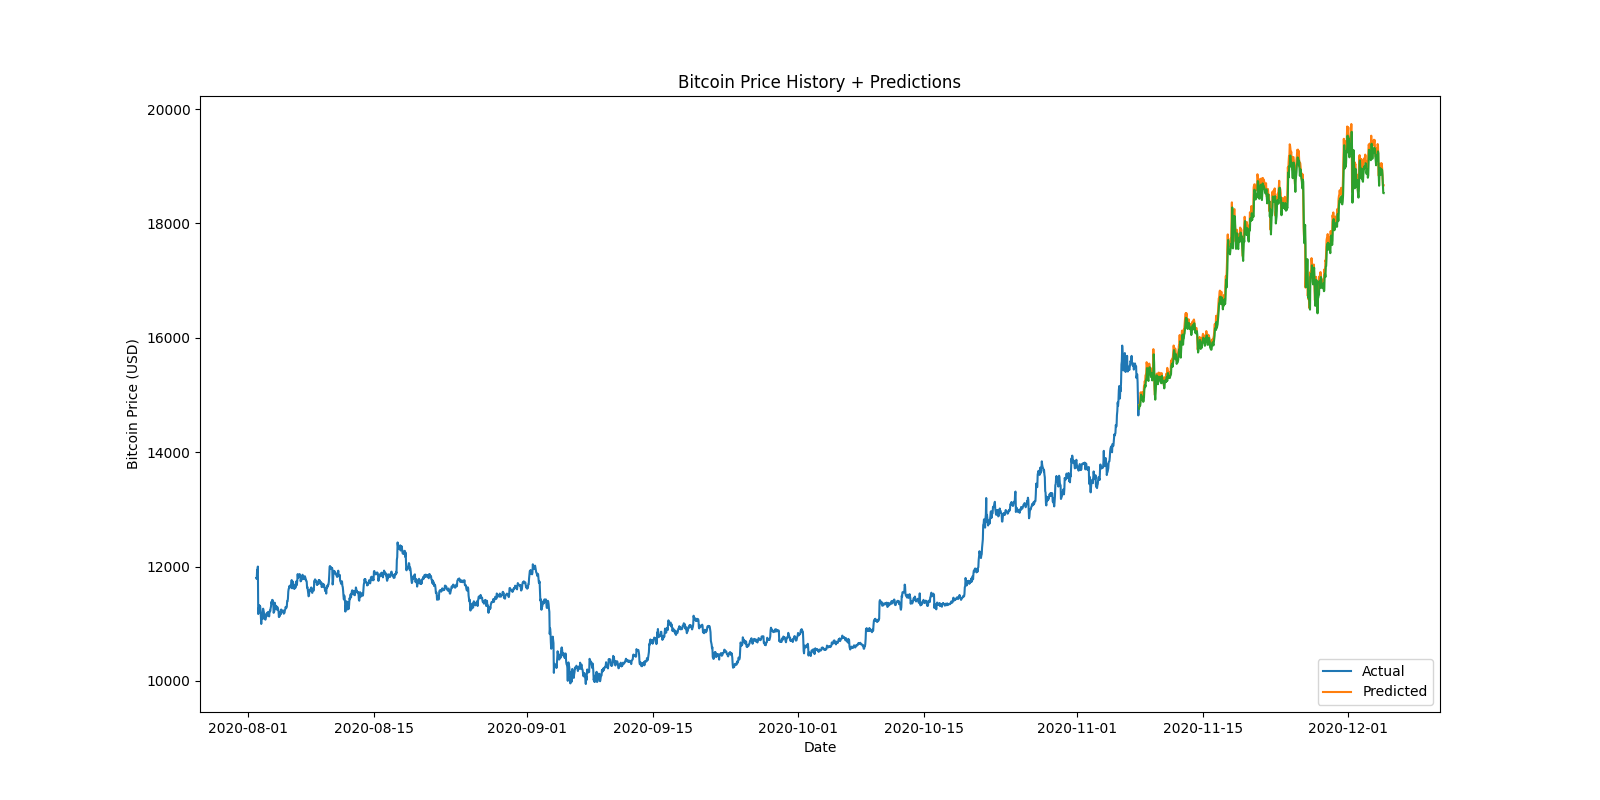
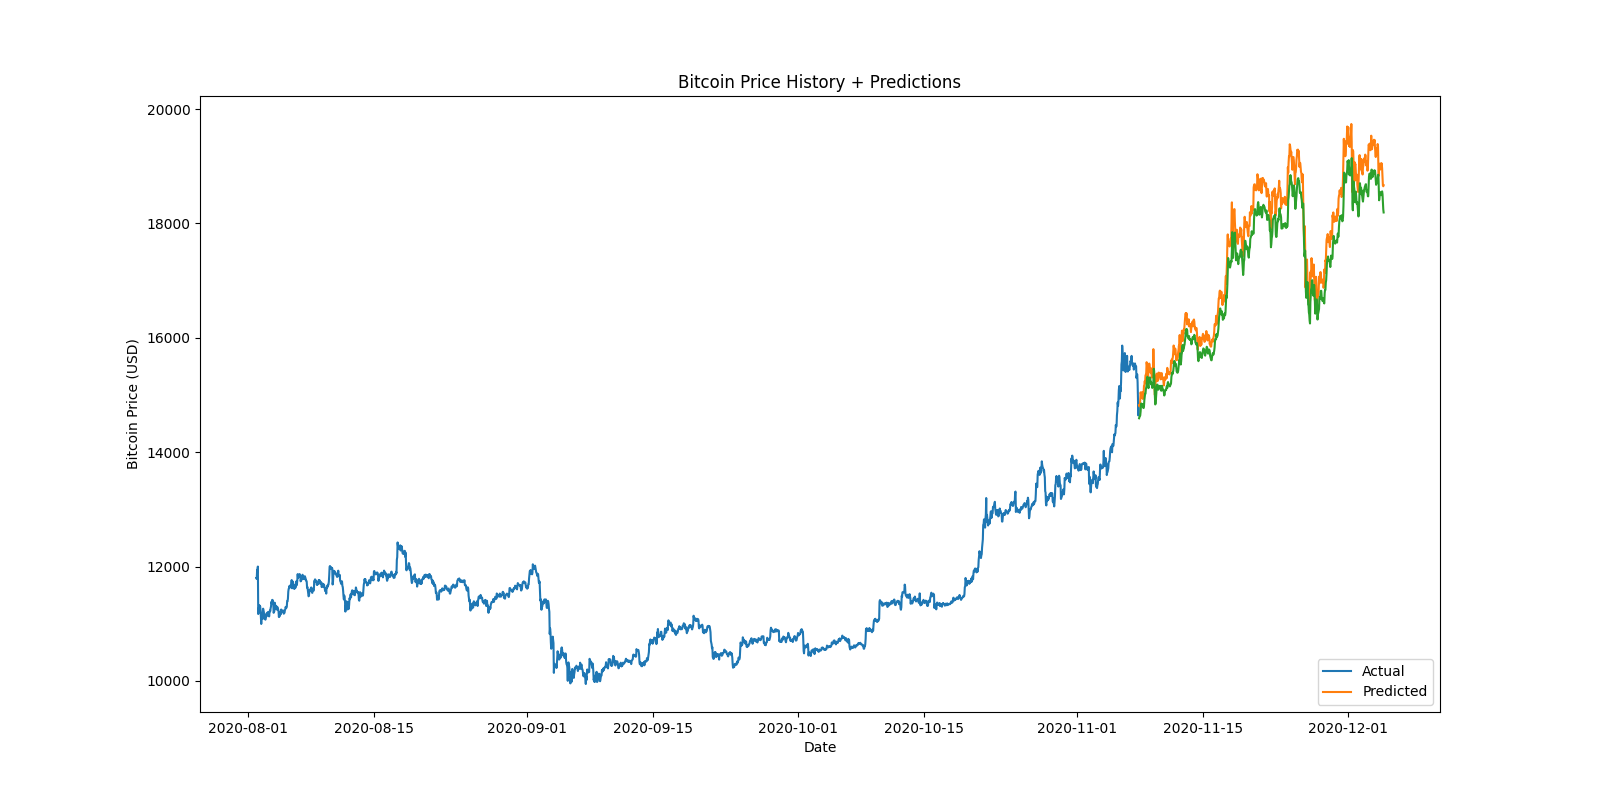
update data

Changed region(s): [[0.75, 0.1875, 0.875, 0.4062], [0.7188, 0.375, 0.7812, 0.5]]

diff --git a/predict_bc.py b/predict_bc.py
@@ -93,7 +93,7 @@ for i in range(lookback,inputs.shape[0]):
 X_test = np.array(X_test)
 
 X_test = np.reshape(X_test, (X_test.shape[0],X_test.shape[1],1))
-closing_price = model.predict(X_test)
+closing_price = model.predict(X_test) #~!!! predict
 closing_price = scaler.inverse_transform(closing_price)
 
 rms=np.sqrt(np.mean(np.power((valid-closing_price),2)))
@@ -125,7 +125,7 @@ plt.legend(['Actual', 'Predicted'], loc=4)
 plt.savefig('chart/predictions_zoomed.png')
 
 pred_slope = pd.Series(np.gradient(valid.predictions.values), valid.predictions.index, name='slope')
-Actual_slope = pd.Series(np.gradient(valid.close.values), valid.close.index, name='slope')
+actual_slope = pd.Series(np.gradient(valid.close.values), valid.close.index, name='slope')
 
 df = pd.concat([valid.predictions.rename('predictions'), pred_slope], axis=1)
 print(df)
@@ -134,7 +134,14 @@ plt.clf()
 plt.xlabel('Date')
 plt.ylabel('Change in Bitcoin Price (USD)')
 plt.title('Change in Bitcoin Price Predictions')
-plt.plot(Actual_slope)    
+plt.plot(actual_slope)    
 plt.plot(pred_slope)
 plt.legend(['Actual', 'Predicted'], loc=4)
 plt.savefig('chart/slope.png')
+
+tally = 0
+for i in range(0,actual_slope.size):
+    #print(actual_slope[i],' ',pred_slope[i])
+    if (actual_slope[i]<0 and pred_slope[i]> 0) or (actual_slope[i]>0 and pred_slope[i]< 0):
+        tally+=1
+print(tally/actual_slope.size)

diff --git a/binance.py b/binance.py
@@ -1,0 +1,8 @@
+import requests, json, datetime
+#using crypto compare
+
+#load api_key
+
+class Binance:
+    def __init__(self, key):
+        self.key = key
